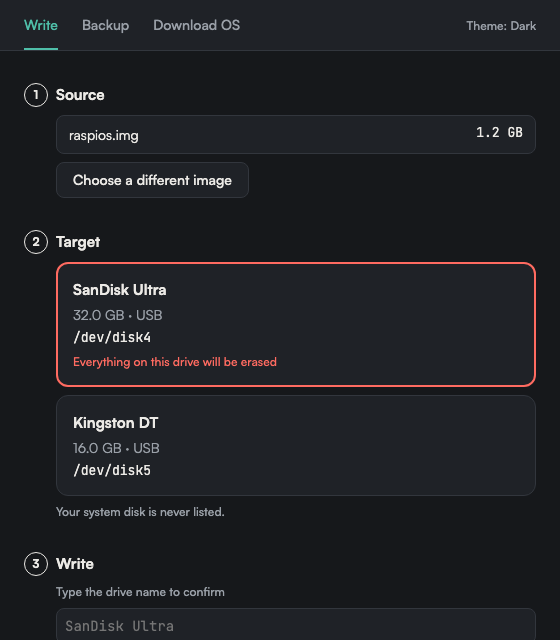
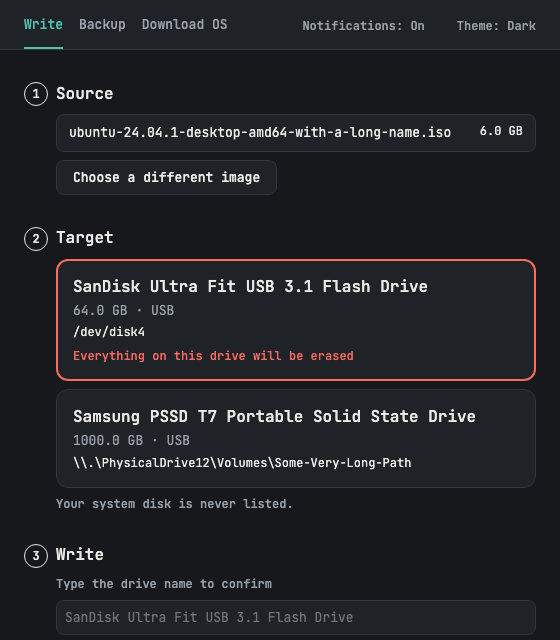
Replace Satoshi with JetBrains Mono (Satoshi licence forbids redistributing the files)

diff --git a/ui/style.css b/ui/style.css
@@ -1,7 +1,4 @@
 /* Fonts are bundled locally (works offline). Tokens from DESIGN.md. */
-@font-face{font-family:Satoshi;font-weight:400;font-display:swap;src:url(fonts/Satoshi-400.woff2) format('woff2')}
-@font-face{font-family:Satoshi;font-weight:500;font-display:swap;src:url(fonts/Satoshi-500.woff2) format('woff2')}
-@font-face{font-family:Satoshi;font-weight:700;font-display:swap;src:url(fonts/Satoshi-700.woff2) format('woff2')}
 @font-face{font-family:'JetBrains Mono';font-weight:400;font-display:swap;src:url(fonts/JetBrainsMono-400.woff2) format('woff2')}
 @font-face{font-family:'JetBrains Mono';font-weight:500;font-display:swap;src:url(fonts/JetBrainsMono-500.woff2) format('woff2')}
 :root{
@@ -13,7 +10,7 @@
   --r-sm:4px; --r-md:8px; --r-lg:12px;
   --xs:4px; --sm:8px; --md:16px; --lg:24px; --xl:32px; --xxl:48px;
   --on-danger:#FFFFFF; --warn-bg:var(--surface); --window-bg:#E4E2DD;
-  --sans:Satoshi,"Helvetica Neue",Arial,sans-serif; --mono:"JetBrains Mono",ui-monospace,Menlo,monospace;
+  --font:"JetBrains Mono",ui-monospace,Menlo,monospace;
 }
 [data-theme=dark]{
   --background:#16181B; --surface:#1F2227; --text:#ECEAE6; --text-muted:#9AA0A8;
@@ -24,36 +21,36 @@
   --window-bg:#0F1113; color-scheme:dark;
 }
 *{box-sizing:border-box}
-body{margin:0;background:var(--window-bg);font:400 14px/1.5 var(--sans);color:var(--text);padding:var(--xl) var(--sm) 96px}
+body{margin:0;background:var(--window-bg);font:400 13px/1.5 var(--font);color:var(--text);padding:var(--xl) var(--sm) 96px}
 .window{width:min(560px,100%);margin:0 auto;background:var(--background);border:1px solid var(--border);border-radius:var(--r-lg);overflow:hidden}
-.tabs{display:flex;gap:var(--lg);padding:0 var(--lg);border-bottom:1px solid var(--border);background:var(--surface)}
-.tab{font:500 14px var(--sans);color:var(--text-muted);background:none;border:0;border-bottom:2px solid transparent;padding:var(--md) 0 14px;cursor:pointer;border-radius:0}
+.tabs{display:flex;gap:var(--md);white-space:nowrap;padding:0 var(--lg);border-bottom:1px solid var(--border);background:var(--surface)}
+.tab{font:500 13px var(--font);color:var(--text-muted);background:none;border:0;border-bottom:2px solid transparent;padding:var(--md) 0 14px;cursor:pointer;border-radius:0}
 .tab:hover{color:var(--text)} .tab[aria-selected=true]{color:var(--primary);border-bottom-color:var(--primary)}
 main{padding:var(--lg);display:flex;flex-direction:column;gap:var(--lg)}
-h1{font:700 22px/1.3 var(--sans);margin:0} h2{font:700 15px/1.3 var(--sans);margin:0}
-.muted{color:var(--text-muted)} .label{font:500 12px var(--sans);color:var(--text-muted)}
-.mono{font:400 13px var(--mono)}
+h1{font:500 20px/1.3 var(--font);margin:0} h2{font:500 16px/1.3 var(--font);margin:0}
+.muted{color:var(--text-muted)} .label{font:500 12px var(--font);color:var(--text-muted)}
+.mono{font:400 12px var(--font)}
 .step-header{display:flex;align-items:center;gap:var(--sm);padding:var(--sm) 0}
-.num{width:24px;height:24px;border-radius:50%;border:1px solid var(--text);display:grid;place-items:center;font:700 12px var(--sans)}
+.num{width:24px;height:24px;border-radius:50%;border:1px solid var(--text);display:grid;place-items:center;font:500 12px var(--font)}
 .step-body{display:flex;flex-direction:column;gap:var(--sm);padding-left:32px}
-button,input,select{font-family:var(--sans)}
+button,input,select{font-family:var(--font)}
 :focus-visible{outline:2px solid var(--primary);outline-offset:2px}
-.btn{font:500 14px var(--sans);padding:var(--sm) var(--md);border-radius:var(--r-md);border:1px solid transparent;cursor:pointer;color:var(--on-primary)}
+.btn{font:500 13px var(--font);padding:var(--sm) var(--md);border-radius:var(--r-md);border:1px solid transparent;cursor:pointer;color:var(--on-primary)}
 .btn-primary{background:var(--primary)} .btn-primary:hover{background:var(--primary-hover)} .btn-primary:active{background:var(--primary-active)}
 .btn-danger{background:var(--danger);color:var(--on-danger)} .btn-danger:hover{background:var(--danger-hover)} .btn-danger:active{background:var(--danger-active)}
 .btn-quiet{background:var(--surface);color:var(--text);border-color:var(--border)} .btn-quiet:hover{border-color:var(--border-hover)}
 .btn:disabled{background:var(--disabled);color:var(--disabled-text);cursor:not-allowed;border-color:transparent}
 .row{display:flex;gap:var(--sm);align-items:center;flex-wrap:wrap}
-.input{background:var(--surface);color:var(--text);border:1px solid var(--border);border-radius:var(--r-md);padding:var(--sm);font-size:14px;min-width:0}
+.input{background:var(--surface);color:var(--text);border:1px solid var(--border);border-radius:var(--r-md);padding:var(--sm);font-size:13px;min-width:0}
 .input:hover{border-color:var(--border-hover)} .input:disabled{color:var(--text-muted);background:var(--background)}
 .file{background:var(--surface);border:1px solid var(--border);border-radius:var(--r-md);padding:var(--sm) 12px;display:flex;justify-content:space-between;gap:var(--sm);flex-wrap:wrap}
 .card{display:block;width:100%;text-align:left;background:var(--surface);color:var(--text);border:1px solid var(--border);border-radius:var(--r-lg);padding:var(--md);cursor:pointer;font:inherit}
 .card:hover{border-color:var(--border-hover)}
-.card .name{font:700 15px var(--sans);display:block}
+.card .name{font:500 16px var(--font);display:block}
 .card .meta{display:block;color:var(--text-muted);margin-top:var(--xs)}
 .card .path{display:block;margin-top:var(--xs)}
 .card.danger{border:2px solid var(--danger);padding:15px}
-.card.danger .tag{color:var(--danger);font:500 12px var(--sans);display:block;margin-top:var(--sm)}
+.card.danger .tag{color:var(--danger);font:500 12px var(--font);display:block;margin-top:var(--sm)}
 .card.pick[aria-pressed=true]{border:2px solid var(--primary);padding:15px}
 .track{height:8px;background:var(--track);border-radius:var(--r-sm);overflow:hidden}
 .bar{height:100%;background:var(--primary);border-radius:var(--r-sm);transition:width 250ms ease-out}
@@ -65,7 +62,7 @@ button,input,select{font-family:var(--sans)}
 .os{display:flex;gap:12px;align-items:flex-start;background:var(--surface);border:1px solid var(--border);border-radius:var(--r-lg);padding:12px var(--md);cursor:pointer}
 .os:hover{border-color:var(--border-hover)} .os:has(input:checked){border:2px solid var(--primary);padding:11px 15px}
 .os input{margin-top:4px;accent-color:var(--primary)}
-.os .t{display:flex;justify-content:space-between;gap:var(--sm);font-weight:700}
+.os .t{display:flex;justify-content:space-between;gap:var(--sm);font-weight:500}
 .toggle{display:flex;gap:var(--sm);align-items:center;cursor:pointer} .toggle input{accent-color:var(--primary);width:16px;height:16px}
 .confirm{display:flex;flex-direction:column;gap:var(--sm)}
 .or{align-self:flex-start}
@@ -73,7 +70,7 @@ button,input,select{font-family:var(--sans)}
 @media (max-width:440px){main{padding:var(--md)} .tabs{gap:var(--md);padding:0 var(--md)} .step-body{padding-left:0}}
 @media (prefers-reduced-motion:reduce){.bar{transition:none}}
 .tabs .spacer{flex:1}
-.theme-btn{font:500 12px var(--sans);color:var(--text-muted);background:none;border:0;cursor:pointer;padding:var(--md) 0 14px;border-radius:0}
+.theme-btn{font:500 12px var(--font);color:var(--text-muted);background:none;border:0;cursor:pointer;padding:var(--md) 0 14px;border-radius:0}
 .theme-btn:hover{color:var(--text)}
 .theme-btn+.theme-btn{margin-left:var(--md)}
 body{padding:0} .window{width:100%;min-height:100vh;border:0;border-radius:0}

diff --git a/design/mockup.html b/design/mockup.html
@@ -5,7 +5,6 @@
 <meta name="viewport" content="width=device-width, initial-scale=1">
 <title>Burner - design mockup</title>
 <!-- Preview only: the app will bundle these fonts locally. -->
-<link rel="stylesheet" href="https://api.fontshare.com/v2/css?f[]=satoshi@400,500,700&display=swap">
 <link rel="stylesheet" href="https://fonts.googleapis.com/css2?family=JetBrains+Mono:wght@400;500&display=swap">
 <style>
 :root{
@@ -17,7 +16,7 @@
   --r-sm:4px; --r-md:8px; --r-lg:12px;
   --xs:4px; --sm:8px; --md:16px; --lg:24px; --xl:32px; --xxl:48px;
   --on-danger:#FFFFFF; --warn-bg:var(--surface); --window-bg:#E4E2DD;
-  --sans:Satoshi,"Helvetica Neue",Arial,sans-serif; --mono:"JetBrains Mono",ui-monospace,Menlo,monospace;
+  --font:"JetBrains Mono",ui-monospace,Menlo,monospace;
 }
 [data-theme=dark]{
   --background:#16181B; --surface:#1F2227; --text:#ECEAE6; --text-muted:#9AA0A8;
@@ -28,36 +27,36 @@
   --window-bg:#0F1113; color-scheme:dark;
 }
 *{box-sizing:border-box}
-body{margin:0;background:var(--window-bg);font:400 14px/1.5 var(--sans);color:var(--text);padding:var(--xl) var(--sm) 96px}
+body{margin:0;background:var(--window-bg);font:400 13px/1.5 var(--font);color:var(--text);padding:var(--xl) var(--sm) 96px}
 .window{width:min(560px,100%);margin:0 auto;background:var(--background);border:1px solid var(--border);border-radius:var(--r-lg);overflow:hidden}
-.tabs{display:flex;gap:var(--lg);padding:0 var(--lg);border-bottom:1px solid var(--border);background:var(--surface)}
-.tab{font:500 14px var(--sans);color:var(--text-muted);background:none;border:0;border-bottom:2px solid transparent;padding:var(--md) 0 14px;cursor:pointer;border-radius:0}
+.tabs{display:flex;gap:var(--md);white-space:nowrap;padding:0 var(--lg);border-bottom:1px solid var(--border);background:var(--surface)}
+.tab{font:500 13px var(--font);color:var(--text-muted);background:none;border:0;border-bottom:2px solid transparent;padding:var(--md) 0 14px;cursor:pointer;border-radius:0}
 .tab:hover{color:var(--text)} .tab[aria-selected=true]{color:var(--primary);border-bottom-color:var(--primary)}
 main{padding:var(--lg);display:flex;flex-direction:column;gap:var(--lg)}
-h1{font:700 22px/1.3 var(--sans);margin:0} h2{font:700 15px/1.3 var(--sans);margin:0}
-.muted{color:var(--text-muted)} .label{font:500 12px var(--sans);color:var(--text-muted)}
-.mono{font:400 13px var(--mono)}
+h1{font:500 20px/1.3 var(--font);margin:0} h2{font:500 16px/1.3 var(--font);margin:0}
+.muted{color:var(--text-muted)} .label{font:500 12px var(--font);color:var(--text-muted)}
+.mono{font:400 12px var(--font)}
 .step-header{display:flex;align-items:center;gap:var(--sm);padding:var(--sm) 0}
-.num{width:24px;height:24px;border-radius:50%;border:1px solid var(--text);display:grid;place-items:center;font:700 12px var(--sans)}
+.num{width:24px;height:24px;border-radius:50%;border:1px solid var(--text);display:grid;place-items:center;font:500 12px var(--font)}
 .step-body{display:flex;flex-direction:column;gap:var(--sm);padding-left:32px}
-button,input,select{font-family:var(--sans)}
+button,input,select{font-family:var(--font)}
 :focus-visible{outline:2px solid var(--primary);outline-offset:2px}
-.btn{font:500 14px var(--sans);padding:var(--sm) var(--md);border-radius:var(--r-md);border:1px solid transparent;cursor:pointer;color:var(--on-primary)}
+.btn{font:500 13px var(--font);padding:var(--sm) var(--md);border-radius:var(--r-md);border:1px solid transparent;cursor:pointer;color:var(--on-primary)}
 .btn-primary{background:var(--primary)} .btn-primary:hover{background:var(--primary-hover)} .btn-primary:active{background:var(--primary-active)}
 .btn-danger{background:var(--danger);color:var(--on-danger)} .btn-danger:hover{background:var(--danger-hover)} .btn-danger:active{background:var(--danger-active)}
 .btn-quiet{background:var(--surface);color:var(--text);border-color:var(--border)} .btn-quiet:hover{border-color:var(--border-hover)}
 .btn:disabled{background:var(--disabled);color:var(--disabled-text);cursor:not-allowed;border-color:transparent}
 .row{display:flex;gap:var(--sm);align-items:center;flex-wrap:wrap}
-.input{background:var(--surface);color:var(--text);border:1px solid var(--border);border-radius:var(--r-md);padding:var(--sm);font-size:14px;min-width:0}
+.input{background:var(--surface);color:var(--text);border:1px solid var(--border);border-radius:var(--r-md);padding:var(--sm);font-size:13px;min-width:0}
 .input:hover{border-color:var(--border-hover)} .input:disabled{color:var(--text-muted);background:var(--background)}
 .file{background:var(--surface);border:1px solid var(--border);border-radius:var(--r-md);padding:var(--sm) 12px;display:flex;justify-content:space-between;gap:var(--sm);flex-wrap:wrap}
 .card{display:block;width:100%;text-align:left;background:var(--surface);color:var(--text);border:1px solid var(--border);border-radius:var(--r-lg);padding:var(--md);cursor:pointer;font:inherit}
 .card:hover{border-color:var(--border-hover)}
-.card .name{font:700 15px var(--sans);display:block}
+.card .name{font:500 16px var(--font);display:block}
 .card .meta{display:block;color:var(--text-muted);margin-top:var(--xs)}
 .card .path{display:block;margin-top:var(--xs)}
 .card.danger{border:2px solid var(--danger);padding:15px}
-.card.danger .tag{color:var(--danger);font:500 12px var(--sans);display:block;margin-top:var(--sm)}
+.card.danger .tag{color:var(--danger);font:500 12px var(--font);display:block;margin-top:var(--sm)}
 .card.pick[aria-pressed=true]{border:2px solid var(--primary);padding:15px}
 .track{height:8px;background:var(--track);border-radius:var(--r-sm);overflow:hidden}
 .bar{height:100%;background:var(--primary);border-radius:var(--r-sm);transition:width 250ms ease-out}
@@ -69,13 +68,13 @@ button,input,select{font-family:var(--sans)}
 .os{display:flex;gap:12px;align-items:flex-start;background:var(--surface);border:1px solid var(--border);border-radius:var(--r-lg);padding:12px var(--md);cursor:pointer}
 .os:hover{border-color:var(--border-hover)} .os:has(input:checked){border:2px solid var(--primary);padding:11px 15px}
 .os input{margin-top:4px;accent-color:var(--primary)}
-.os .t{display:flex;justify-content:space-between;gap:var(--sm);font-weight:700}
+.os .t{display:flex;justify-content:space-between;gap:var(--sm);font-weight:500}
 .toggle{display:flex;gap:var(--sm);align-items:center;cursor:pointer} .toggle input{accent-color:var(--primary);width:16px;height:16px}
 .confirm{display:flex;flex-direction:column;gap:var(--sm)}
 .or{align-self:flex-start}
 .statebar{position:fixed;left:0;right:0;bottom:0;background:#1B1F24;color:#fff;padding:var(--sm) var(--md);display:flex;gap:var(--xs);flex-wrap:wrap;justify-content:center;align-items:center;font-size:12px}
 .statebar b{font-weight:500;color:#B8BDC4;margin-right:var(--sm)}
-.statebar button{font:500 12px var(--sans);background:transparent;color:#fff;border:1px solid #4A515A;border-radius:var(--r-sm);padding:var(--xs) var(--sm);cursor:pointer}
+.statebar button{font:500 12px var(--font);background:transparent;color:#fff;border:1px solid #4A515A;border-radius:var(--r-sm);padding:var(--xs) var(--sm);cursor:pointer}
 .statebar button:hover{border-color:#fff} .statebar button[aria-pressed=true]{background:#fff;color:#1B1F24}
 [hidden]{display:none!important}
 @media (max-width:440px){main{padding:var(--md)} .tabs{gap:var(--md);padding:0 var(--md)} .step-body{padding-left:0}}

diff --git a/DESIGN.md b/DESIGN.md
@@ -33,24 +33,24 @@ colors:
   dark-disabled-text: "#7C828A"
 typography:
   heading-lg:
-    fontFamily: Satoshi
-    fontSize: 22px
-    fontWeight: 700
+    fontFamily: JetBrains Mono
+    fontSize: 20px
+    fontWeight: 500
   heading-md:
-    fontFamily: Satoshi
-    fontSize: 15px
-    fontWeight: 700
+    fontFamily: JetBrains Mono
+    fontSize: 16px
+    fontWeight: 500
   body:
-    fontFamily: Satoshi
-    fontSize: 14px
+    fontFamily: JetBrains Mono
+    fontSize: 13px
     fontWeight: 400
   label:
-    fontFamily: Satoshi
+    fontFamily: JetBrains Mono
     fontSize: 12px
     fontWeight: 500
   mono:
     fontFamily: JetBrains Mono
-    fontSize: 13px
+    fontSize: 12px
     fontWeight: 400
 rounded:
   sm: 4px
@@ -113,10 +113,9 @@ Light is the default. Dark follows the OS setting (`prefers-color-scheme`) with 
 - Progress track `dark-progress-track`; disabled fill `dark-disabled` with `dark-disabled-text`.
 
 ## Typography
-- Satoshi (Fontshare, free commercial use; 400/500/700) for headings, UI, and body.
-- JetBrains Mono (OFL; 400/500) for drive paths, sizes, and hashes.
-- Both bundled locally in the app (works offline).
-- Sizes: heading 22px and 15px, body 14px, label 12px.
+- JetBrains Mono (OFL 1.1; 400/500) is the only typeface: headings, UI, body, and data (drive paths, sizes, hashes).
+- Bundled locally in the app (works offline).
+- Sizes: heading 20px and 16px, body 13px, label 12px, data 12px. Headings differ from body by size and colour as well as weight (500 vs 400); there is no bold file, so no faux bold.
 
 ## Layout
 Grid-disciplined single-column wizard: 1 Source, 2 Target, 3 Write. Step numbers always visible. Fixed narrow window, about 560px. Plain top row of mode tabs: Write / Backup / Download OS. Spacing is a 4px base (4, 8, 16, 24, 32, 48) with 24px between steps.
@@ -155,3 +154,4 @@ Don't:
 |------|----------|-----------|
 | 2026-10-09 | Initial design system created | Created by /design-consultation from product context (no competitor research) |
 | 2026-10-09 | Added dark theme tokens; light stays default | Approved dark mockup; OS-follow with manual override, danger still the only red |
+| 2026-10-10 | Replaced Satoshi with JetBrains Mono everywhere | Satoshi licence (ITF FFL v2.0) does not allow redistributing the font files in the public repo; JetBrains Mono is OFL 1.1 |

diff --git a/THIRD_PARTY_NOTICES.md b/THIRD_PARTY_NOTICES.md
@@ -4,6 +4,8 @@ Burner itself is Apache-2.0 (see LICENSE). The components below keep their own l
 
 ## Fonts (`ui/fonts`)
 
+Satoshi was used earlier but removed: its licence does not allow redistributing the font files in a public repository. Earlier commits still contain them.
+
 ### JetBrains Mono (`JetBrainsMono-*.woff2`)
 SIL Open Font License 1.1, copyright and full text below. It permits redistribution (including inside an app) provided this notice and licence travel with the font files.
 
